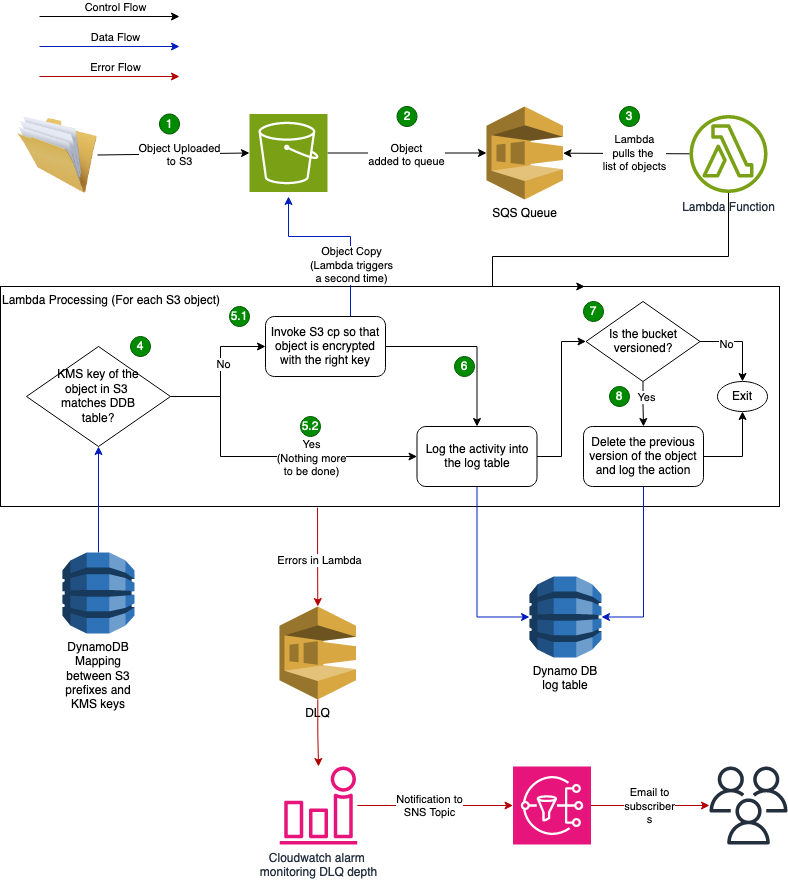
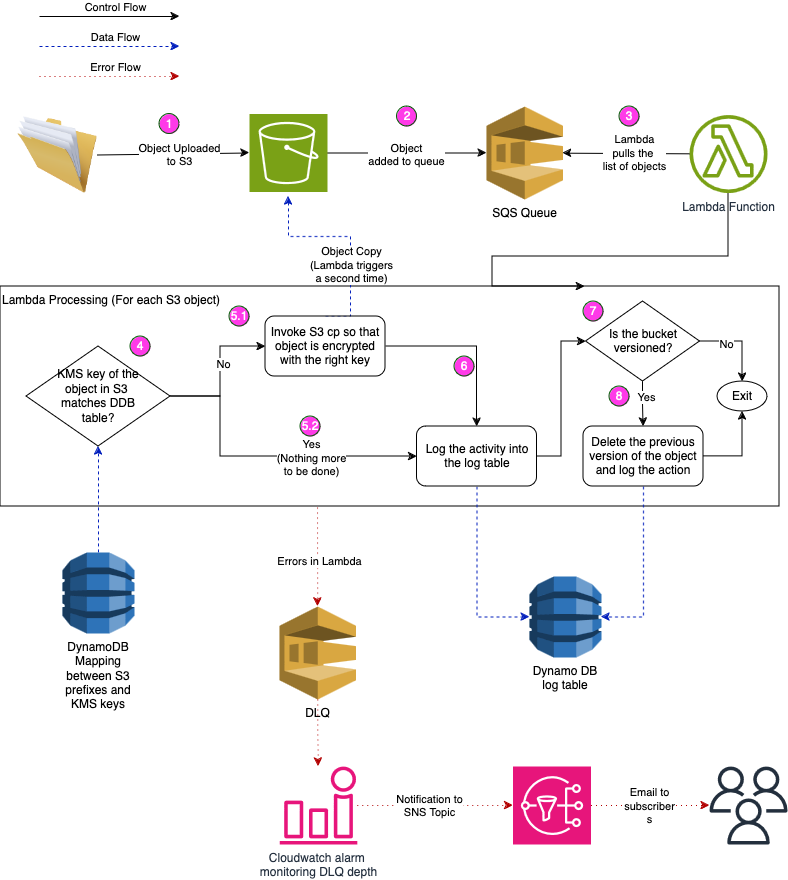
Modified image to use different line types for different flows. Fixed the TOC in the README file.

diff --git a/README.md b/README.md
@@ -5,11 +5,12 @@
 2. [Motivation](#2-motivation)
 3. [Prerequisites](#3-prerequisites)
 4. [Installation](#4-installation)
-5. [Testing](#5-testing)
-6. [Design](#6-design)
-7. [Caveats](#7-caveats)
-8. [Security](#8-security)
-9. [License](#9-license)
+5. [Creating an S3 Bucket and 3 KMS keys for a Demo](#5-creating-an-s3-bucket-and-3-kms-keys-for-a-demo)
+6. [Testing](#6-testing)
+7. [Design](#7-design)
+8. [Caveats](#8-caveats)
+9. [Security](#9-security)
+10. [License](#10-license)
 
 ## __1. Description__
 This is a demo of an approach to enforce Prefix level KMS keys on S3.
